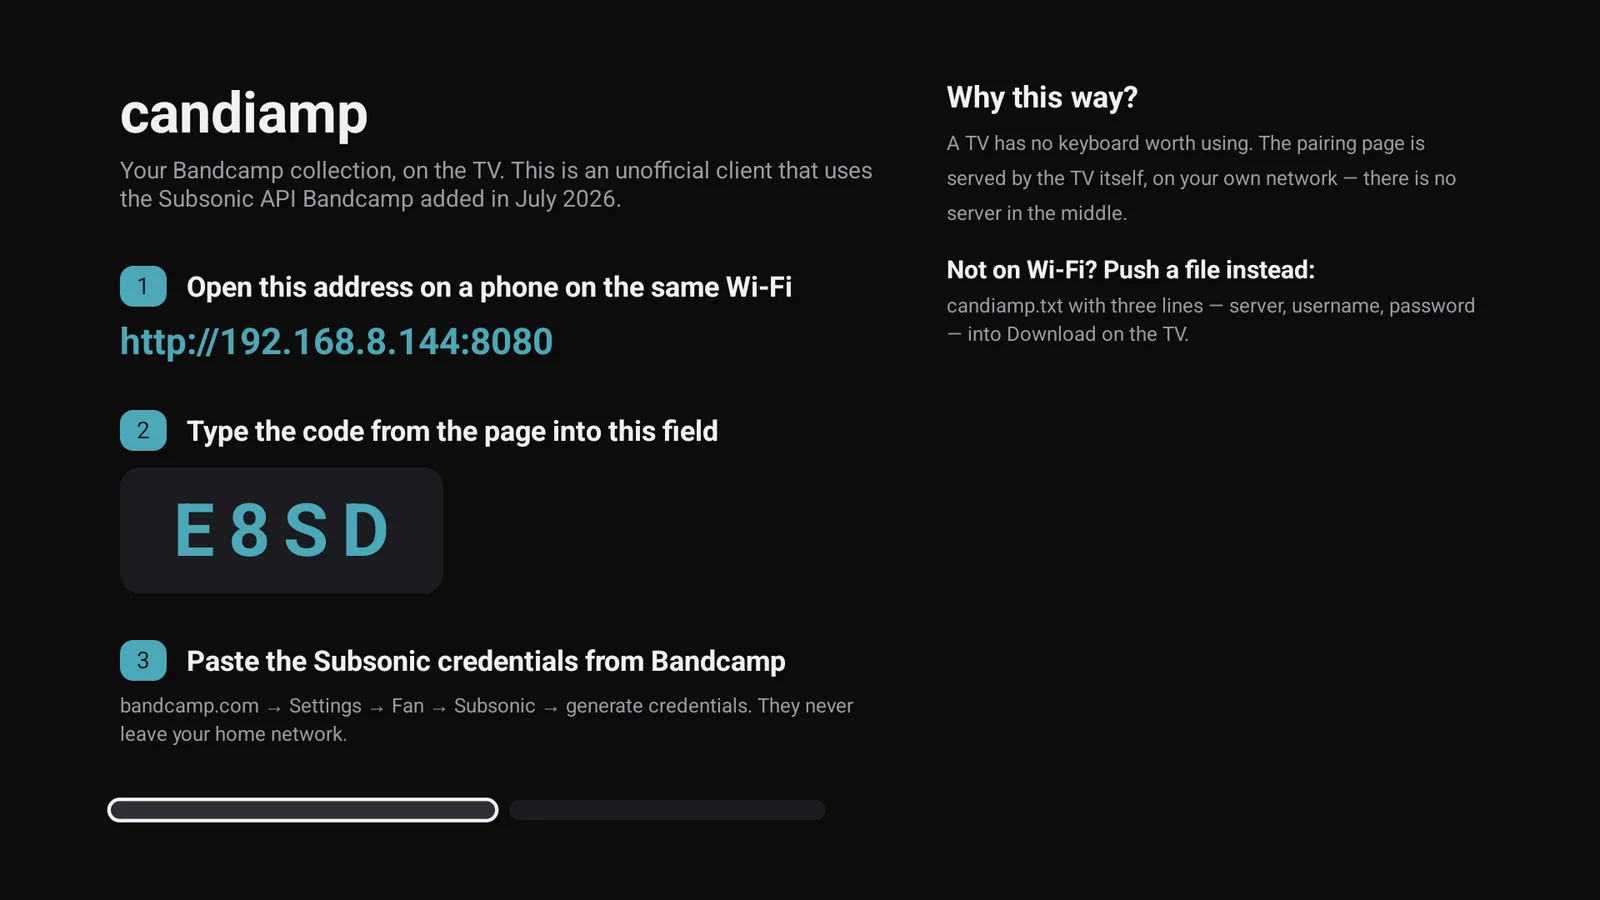
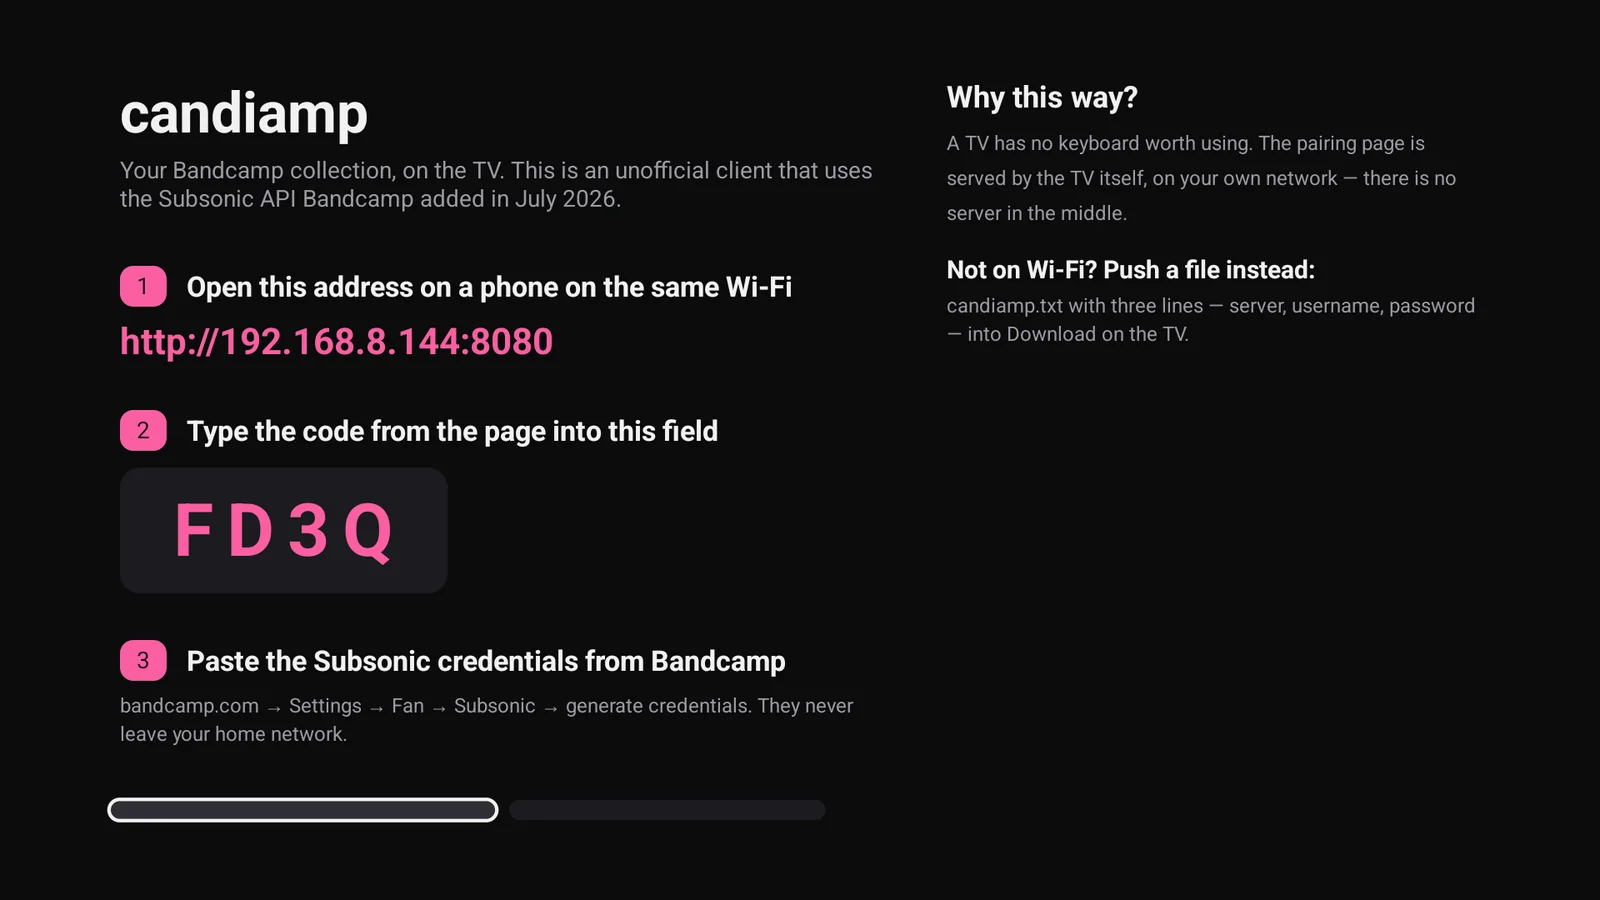
Refresh screenshots for the queue update
Regenerate all screenshots from the current app: candy-pink accent, on-screen transport buttons, the queue screen and the long-press queue actions.

Add a Queue feature card, queue and queue-actions gallery entries, and a vinyl-only record figure under the API limits. Remove the note about the source being private from the install section.

Remove the accidental viewport probe that prefixed the page title with vw/sw debug values, and regenerate the social card from the new home screen.

diff --git a/index.html b/index.html
@@ -5,7 +5,7 @@
   <meta name="viewport" content="width=device-width, initial-scale=1">
 
   <title>candiamp — your Bandcamp collection, on the TV</title>
-  <meta name="description" content="candiamp is an unofficial Android TV client for Bandcamp's Subsonic endpoint. Browse, search and play your own collection with a remote, including Bandcamp Radio and optional Last.fm scrobbling.">
+  <meta name="description" content="candiamp is an unofficial Android TV client for Bandcamp's Subsonic endpoint. Browse, search and queue your own collection with a remote, including Bandcamp Radio and optional Last.fm scrobbling.">
   <link rel="canonical" href="https://candiamp.tv/">
   <meta name="theme-color" content="#0b0b0c">
   <meta name="color-scheme" content="dark">
@@ -14,7 +14,7 @@
   <meta property="og:site_name" content="candiamp">
   <meta property="og:url" content="https://candiamp.tv/">
   <meta property="og:title" content="candiamp — your Bandcamp collection, on the TV">
-  <meta property="og:description" content="An unofficial Android TV client for Bandcamp's Subsonic endpoint. No server in the middle, no Bandcamp account, no browser.">
+  <meta property="og:description" content="An unofficial Android TV client for Bandcamp's Subsonic endpoint. No server in the middle, no Bandcamp account, no browser — with a real queue and a remote-first player.">
   <meta property="og:image" content="https://candiamp.tv/images/og.png">
   <meta property="og:image:width" content="1200">
   <meta property="og:image:height" content="630">
@@ -32,7 +32,7 @@
 
   <link rel="preload" as="image" href="images/screens/home.webp">
   <link rel="stylesheet" href="assets/style.css">
-<script>window.addEventListener("load",function(){var w=window.innerWidth;var out=[];document.querySelectorAll("body *").forEach(function(el){var r=el.getBoundingClientRect();if(r.right>w+1||r.width>w+1){out.push(el.tagName+"."+(el.className||"")+" right="+Math.round(r.right)+" w="+Math.round(r.width));}});document.title="vw="+w+" sw="+document.documentElement.scrollWidth+" || "+out.slice(0,12).join(" ;; ");});</script></head>
+</head>
 <body>
   <a class="skip" href="#main">Skip to content</a>
 
@@ -93,7 +93,13 @@
         <li>
           <h3>Play, and actually seek</h3>
           <p>256 kbps VBR MP3, and the server answers <code>206 Partial Content</code>, so scrubbing
-             works — ten seconds at a time from the remote.</p>
+             works — ten seconds at a time. The player carries Previous, Pause and Next buttons, so the
+             media keys are a shortcut rather than a requirement.</p>
+        </li>
+        <li>
+          <h3>A real queue</h3>
+          <p>The player's timeline, played tracks included. Play next or add to queue from a record or
+             any track; long-press a row to move or remove it. The sidebar carries the count.</p>
         </li>
         <li>
           <h3>Leave it playing</h3>
@@ -118,7 +124,8 @@
         <li>
           <h3>Made for a remote</h3>
           <p>Focus rings, rows that fit a 1080p layout, and OK / play-pause / next / previous / seek.
-             No pointer, no keyboard, no squinting.</p>
+             Long-press is the second click, for the queue and every track. No pointer, no keyboard,
+             no squinting.</p>
         </li>
       </ul>
     </section>
@@ -140,31 +147,45 @@
           </a>
         </li>
         <li>
-          <a class="shot" href="images/screens/record.webp" data-caption="A record — track list, running time, genre, and Play or Shuffle, with the now-playing bar along the bottom.">
+          <a class="shot" href="images/screens/record.webp" data-caption="A record — track list, running time, genre, Play or Shuffle, and Play next or Add to queue for the whole record.">
             <img src="images/screens/record.webp" width="1600" height="900" loading="lazy"
-                 alt="A record page for Night Bus Home by Marta Vey: sleeve, track list with running times, Play and Shuffle buttons, and a now-playing bar.">
-            <span class="shot-caption"><strong>A record</strong><span>Track list, running time, genre, Play or Shuffle.</span></span>
+                 alt="A record page for Static in the Kitchen by The Quiet Hours: sleeve, track list with running times, Play and Shuffle, then Play next and Add to queue, with a hint about long-pressing a track.">
+            <span class="shot-caption"><strong>A record</strong><span>Play or Shuffle it, or push the whole record into the queue.</span></span>
+          </a>
+        </li>
+        <li>
+          <a class="shot" href="images/screens/queue.webp" data-caption="The queue — the player's timeline, played tracks included, with long-press for move or remove.">
+            <img src="images/screens/queue.webp" width="1600" height="900" loading="lazy"
+                 alt="Queue screen: seven tracks from Static in the Kitchen, the current track marked Playing in pink, earlier tracks dimmed, and a focused row ringed in pink.">
+            <span class="shot-caption"><strong>The queue</strong><span>Played tracks stay; the current one is marked.</span></span>
+          </a>
+        </li>
+        <li>
+          <a class="shot" href="images/screens/queue-actions.webp" data-caption="Queue actions — long-press a row to play it now, move it, or remove it.">
+            <img src="images/screens/queue-actions.webp" width="1600" height="900" loading="lazy"
+                 alt="A queue action sheet over the queue: Borrowed Light selected, with Play now, Move down and Remove from queue buttons.">
+            <span class="shot-caption"><strong>Queue actions</strong><span>Long-press a row: play now, move, remove.</span></span>
           </a>
         </li>
         <li>
           <a class="shot" href="images/screens/artists.webp" data-caption="Artists — covers come from a record credited to each artist, and the label is called out as a label.">
             <img src="images/screens/artists.webp" width="1600" height="900" loading="lazy"
                  alt="Artists screen: eight circular covers with names and record counts, including Second Press marked Label, 5 records.">
-            <span class="shot-caption"><strong>Artists</strong><span>Covers from a record, and labels that admit it.</span></span>
+            <span class="shot-caption"><strong>Artists</strong><span>Artist pictures, and labels that admit it.</span></span>
           </a>
         </li>
         <li>
-          <a class="shot" href="images/screens/search.webp" data-caption="Search — a query for “NIGHT” across records and tracks, playable without leaving the screen.">
+          <a class="shot" href="images/screens/search.webp" data-caption="Search — a query for “NIGHT” across records and tracks, playable without leaving the screen; long-press a track to queue it.">
             <img src="images/screens/search.webp" width="1600" height="900" loading="lazy"
                  alt="Search screen showing the query NIGHT, a record result for Night Bus Home, and a Tracks section with three matching tracks.">
             <span class="shot-caption"><strong>Search</strong><span>Records and tracks, playable from the results.</span></span>
           </a>
         </li>
         <li>
-          <a class="shot" href="images/screens/player.webp" data-caption="The player — sleeve, title, artist and a progress bar the remote can scrub.">
+          <a class="shot" href="images/screens/player.webp" data-caption="The player — sleeve, progress, the previous and next entries, and Previous / Pause / Next / Queue buttons.">
             <img src="images/screens/player.webp" width="1600" height="900" loading="lazy"
-                 alt="Full-screen player: large sleeve artwork on the left, track and artist names on the right, a progress bar at 1:13 of 3:51, and the word Playing.">
-            <span class="shot-caption"><strong>The player</strong><span>Big sleeve, honest progress.</span></span>
+                 alt="Full-screen player: sleeve on the left; Four Walls, Backwards by The Quiet Hours on the right with a progress bar, previous and up-next entries, and Previous, Pause, Next and Queue buttons below.">
+            <span class="shot-caption"><strong>The player</strong><span>Big sleeve, the next track in view, the queue one button away.</span></span>
           </a>
         </li>
         <li>
@@ -239,14 +260,18 @@
           <dd>Listed and marked <em>no audio</em>, with Play hidden — the same as the website shows them.</dd>
         </div>
       </dl>
+      <figure class="limit-shot">
+        <img src="images/screens/no-audio.webp" width="1600" height="900" loading="lazy"
+             alt="A record page for Lathe Cuts by Brass Neck, with no Play button and the message: Nothing to stream: Bandcamp lists this release without audio, which is how vinyl-only items appear in a collection.">
+        <figcaption>A vinyl-only record: listed, marked no audio, and honest about why.</figcaption>
+      </figure>
     </section>
 
     <section id="install" aria-labelledby="install-title">
       <div class="section-head">
         <h2 id="install-title">Install</h2>
         <p>
-          candiamp is not published anywhere yet, and the source is private for now. This is what it
-          takes to build it and sideload it onto your own TV.
+          Build it and sideload it onto your own TV.
         </p>
       </div>
       <ol class="steps">

diff --git a/assets/style.css b/assets/style.css
@@ -465,6 +465,25 @@ main > section:not(.hero) {
   font-style: normal;
 }
 
+.limit-shot {
+  margin: 30px 0 0;
+  max-width: 560px;
+}
+
+.limit-shot img {
+  display: block;
+  width: 100%;
+  border-radius: 12px;
+  border: 1px solid var(--line);
+}
+
+.limit-shot figcaption {
+  margin-top: 10px;
+  font-size: 12.5px;
+  line-height: 1.5;
+  color: var(--muted);
+}
+
 /* Install */
 
 .steps {
